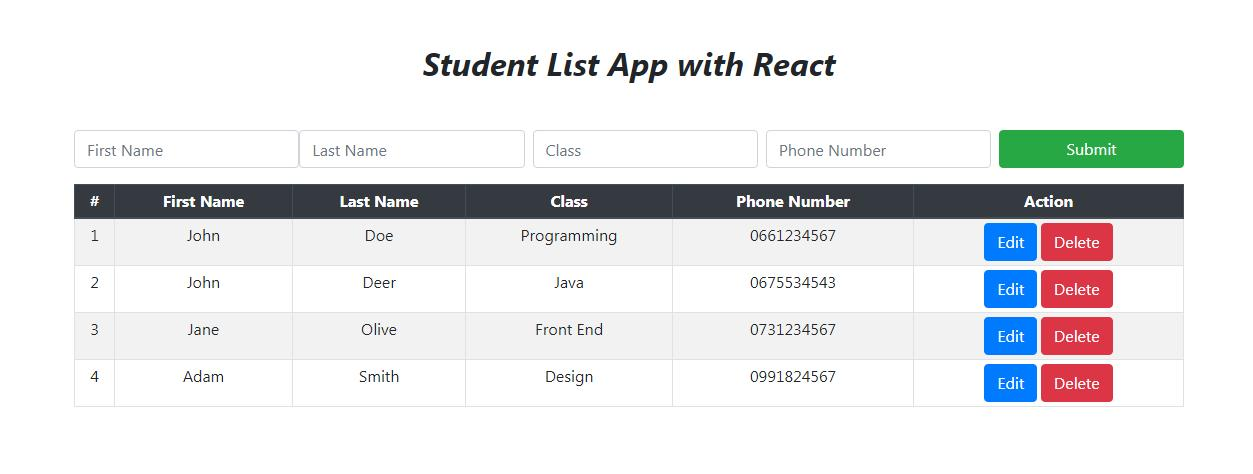
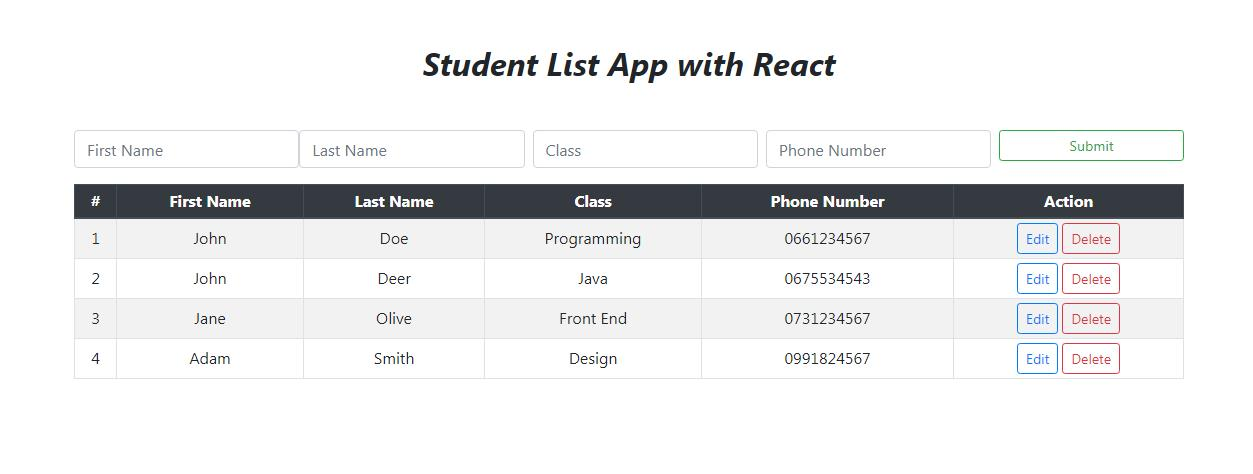
#

diff --git a/src/components/tables/StudentTable.js b/src/components/tables/StudentTable.js
@@ -5,14 +5,14 @@ const StudentTable = ({students, removeStudent, wantToEdit}) => {
   const studentList = students.map(student => {
     return(
       <tr key={student.id}>
-        <td>{student.id+1}</td>
-        <td>{student.firstname}</td>
-        <td>{student.lastname}</td>
-        <td>{student.class}</td>
-        <td>{student.contact}</td>
+        <td className="align-middle">{student.id+1}</td>
+        <td className="align-middle">{student.firstname}</td>
+        <td className="align-middle">{student.lastname}</td>
+        <td className="align-middle">{student.class}</td>
+        <td className="align-middle">{student.contact}</td>
         <td>
-          <button className="btn btn-primary mr-1" onClick={() => wantToEdit(student.id, student.firstname, student.lastname, student.class, student.contact)}>Edit</button>
-          <button className="btn btn-danger" onClick={() => removeStudent(student.id)}>Delete</button>
+          <button className="btn btn-outline-primary btn-sm mr-1" onClick={() => wantToEdit(student.id, student.firstname, student.lastname, student.class, student.contact)}>Edit</button>
+          <button className="btn btn-outline-danger btn-sm" onClick={() => removeStudent(student.id)}>Delete</button>
         </td>
       </tr>
     )

diff --git a/src/components/forms/AddStudent.js b/src/components/forms/AddStudent.js
@@ -48,7 +48,7 @@ class AddStudent extends Component {
           </div>
 
           <div className="form-group col-2 ml-2">
-            <button onClick={ this.handleClick } className="btn btn-success btn-block">Submit</button>
+            <button onClick={ this.handleClick } className="btn btn-outline-success btn-block btn-sm">Submit</button>
           </div>
 
         </form>

diff --git a/src/components/forms/EditStudent.js b/src/components/forms/EditStudent.js
@@ -90,7 +90,7 @@ class EditStudent extends Component {
           <div className="form-group col-2 ml-2">
             <button
               onClick={this.handleClick}
-              className="btn btn-primary btn-block"
+              className="btn btn-outline-primary btn-sm btn-block"
             >
               {" "}
               Update{" "}
